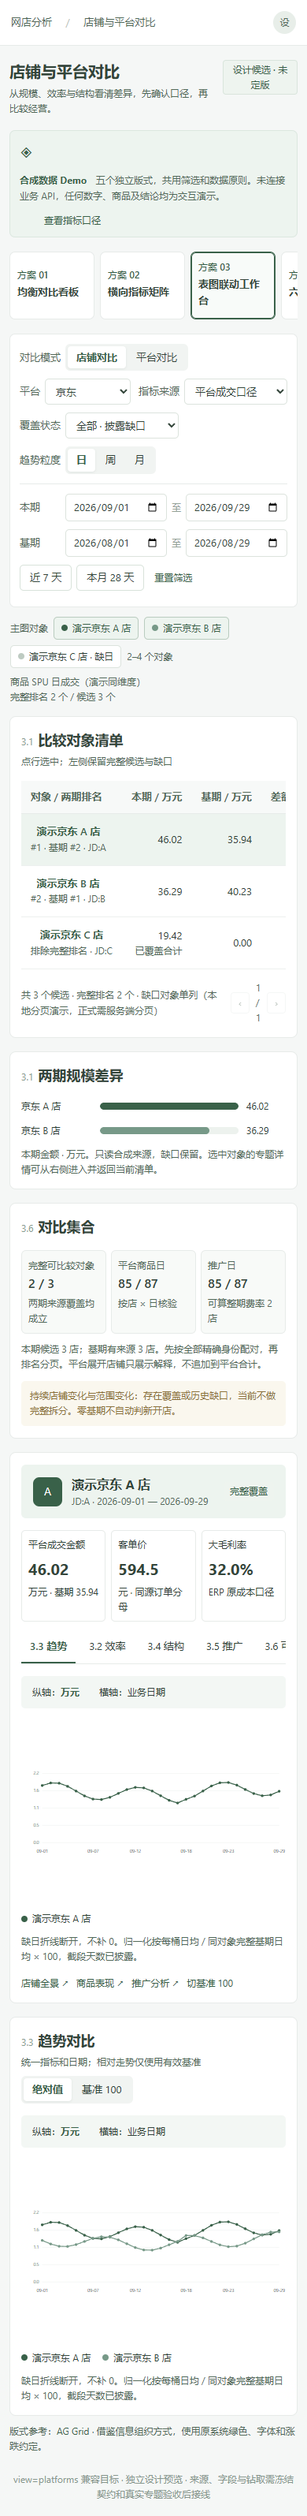
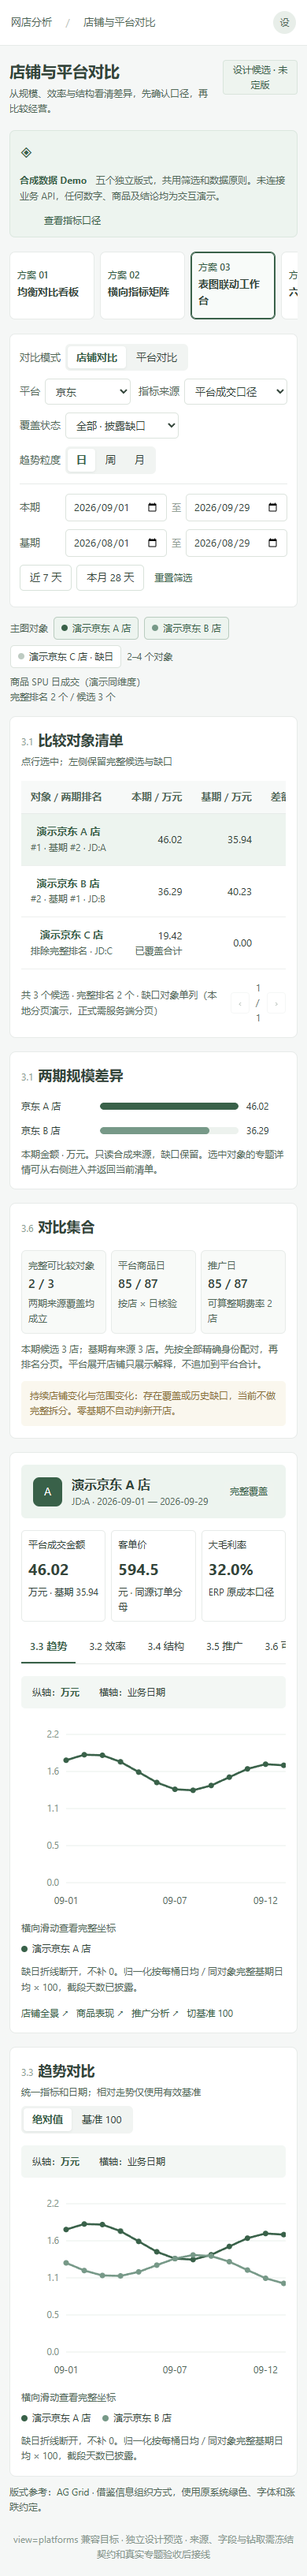
fix(netshop): preserve readable chart labels in narrow comparison panels

diff --git a/app/netshop/comparison/demo/demo.js b/app/netshop/comparison/demo/demo.js
@@ -187,7 +187,7 @@
     for(let i=0;i<4;i++){const yy=H-B-i*(H-T-B)/3;svg+=`<line class="gridline" x1="${L}" x2="${W-R}" y1="${yy}" y2="${yy}"/><text x="${L-8}" y="${yy+4}" text-anchor="end">${n(maxY*i/3/100)}</text>`;}
     objects.forEach(o=>{const index=data.selected.indexOf(o),xx=L+Math.max(0,o.current.amount)/maxX*(W-L-R),yy=H-B-o.ratios.aov/maxY*(H-T-B);svg+=`<circle cx="${xx}" cy="${yy}" r="${8+Math.sqrt(o.current.orders||0)/5}" fill="${COLORS[index]}" fill-opacity=".7"/><text x="${xx}" y="${yy-22}" text-anchor="middle">${o.name.replace('演示','')}</text>`;});
     svg+=`<text x="${L}" y="${H-24}">0</text><text x="${W-R}" y="${H-24}" text-anchor="end">${money(maxX)}</text><text x="${W-R}" y="${H-3}" text-anchor="end">${esc(amountLabel())}（万元）</text></svg>`;
-    return svg+`<p class="plain-note">气泡大小：订单数。仅对完整覆盖对象绘图；不计算综合评分。负值净销售不用于规模气泡。</p>`;
+    return `<div class="chart-wrap">${svg}</div>`+`<p class="plain-note">气泡大小：订单数。仅对完整覆盖对象绘图；不计算综合评分。负值净销售不用于规模气泡。</p>`;
   }
   function efficiencyTable(data){return `<div class="table-wrap"><table><thead><tr><th>对象</th><th>客单价 / 元</th><th>大毛利率</th><th>退货金额率</th><th>商品累计转化率</th></tr></thead><tbody>${data.selected.map(o=>`<tr><td>${o.name}</td><td>${yuan(o.ratios.aov)}</td><td>${pct(o.ratios.grossMargin)}</td><td>${pct(o.ratios.returnRate)}</td><td>${pct(o.ratios.conversion)}</td></tr>`).join('')}</tbody></table></div><p class="plain-note">客单价=同源金额/可信订单数；大毛利率=(ERP净销售−成本)/ERP净销售；退货金额率=退货金额/退货前销售金额。商品累计转化率仅演示同 SPU 维度，不当店铺去重转化。</p>`;}
   function efficiencyCard(data,span='span-5'){return card('经营效率',2,scatter(data),span,'横轴规模，纵轴效率；比率按分子分母重算',`<button class="text-button" data-action="efficiency-detail">指标矩阵 ↗</button>`);}

diff --git a/app/netshop/comparison/demo/demo.css b/app/netshop/comparison/demo/demo.css
@@ -3,3 +3,9 @@
 /* Keep intrinsic table width inside its scroll container in all five narrow layouts. */
 .workbench > *, .report-shell > *, .audit-shell > *, .left-pane, .right-pane, .report-body, .audit-main, .audit-aside { min-width: 0; }
 @media(max-width:760px){ .matrix-footer,.workbench,.report-shell,.audit-shell,.audit-aside { grid-template-columns:minmax(0,1fr); } }
+
+/* Preserve 12px rendered chart labels; scroll the chart locally when its panel is narrow. */
+.chart-wrap { max-width:100%; overflow-x:auto; }
+.chart-svg { width:100%; height:auto !important; min-width:440px; }
+.chart-svg[data-testid="trend-chart"] { min-width:720px; }
+@media(max-width:760px) { .chart-wrap::after { content:"横向滑动查看完整坐标"; display:block; font-size:12px; color:var(--muted); padding-top:4px; } }
